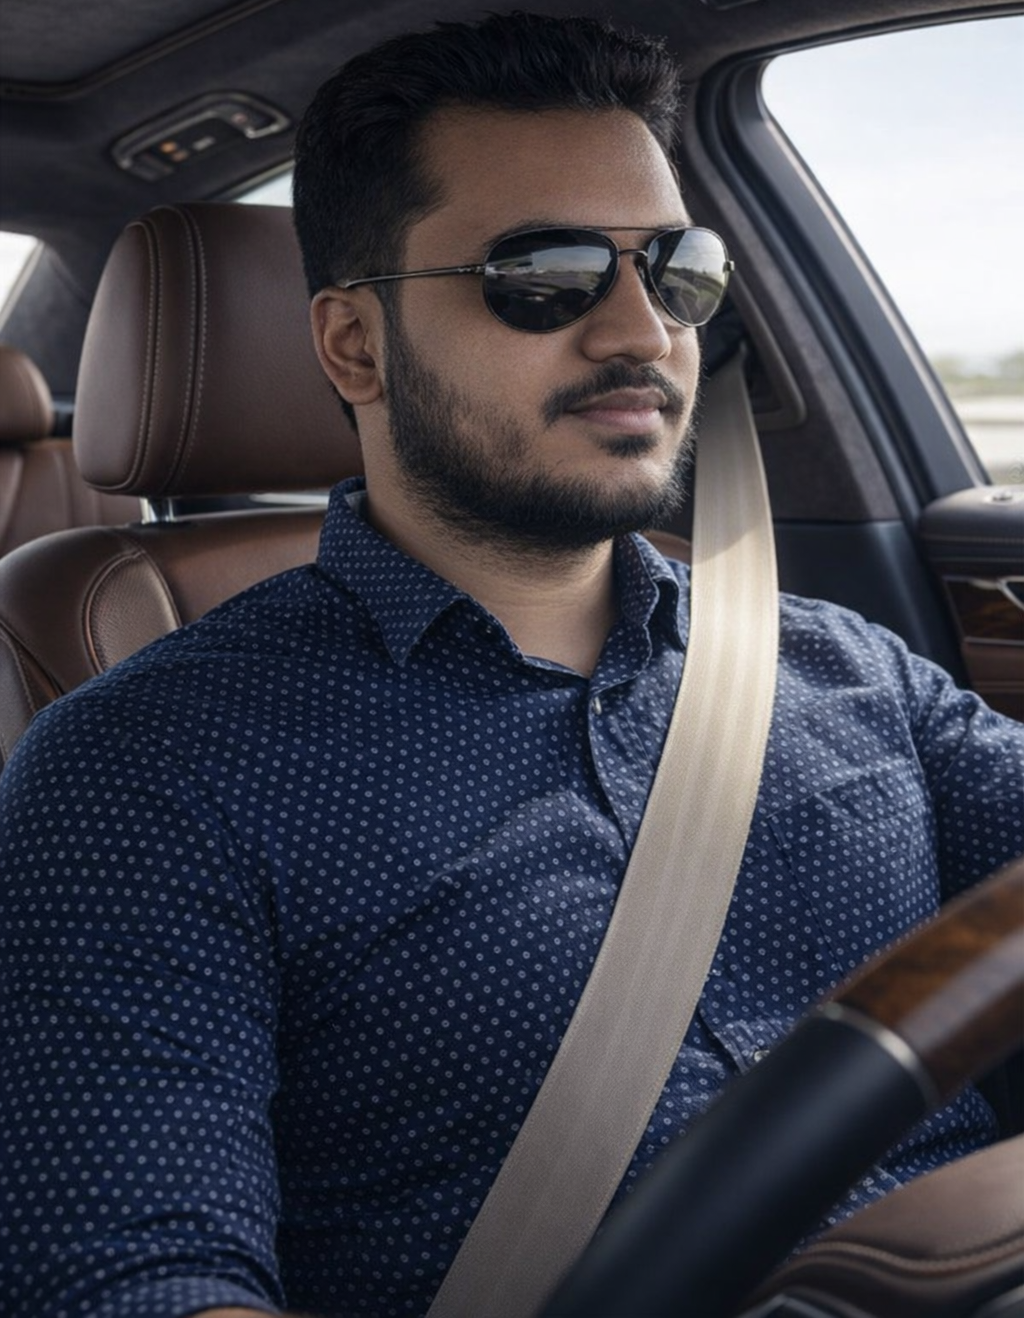
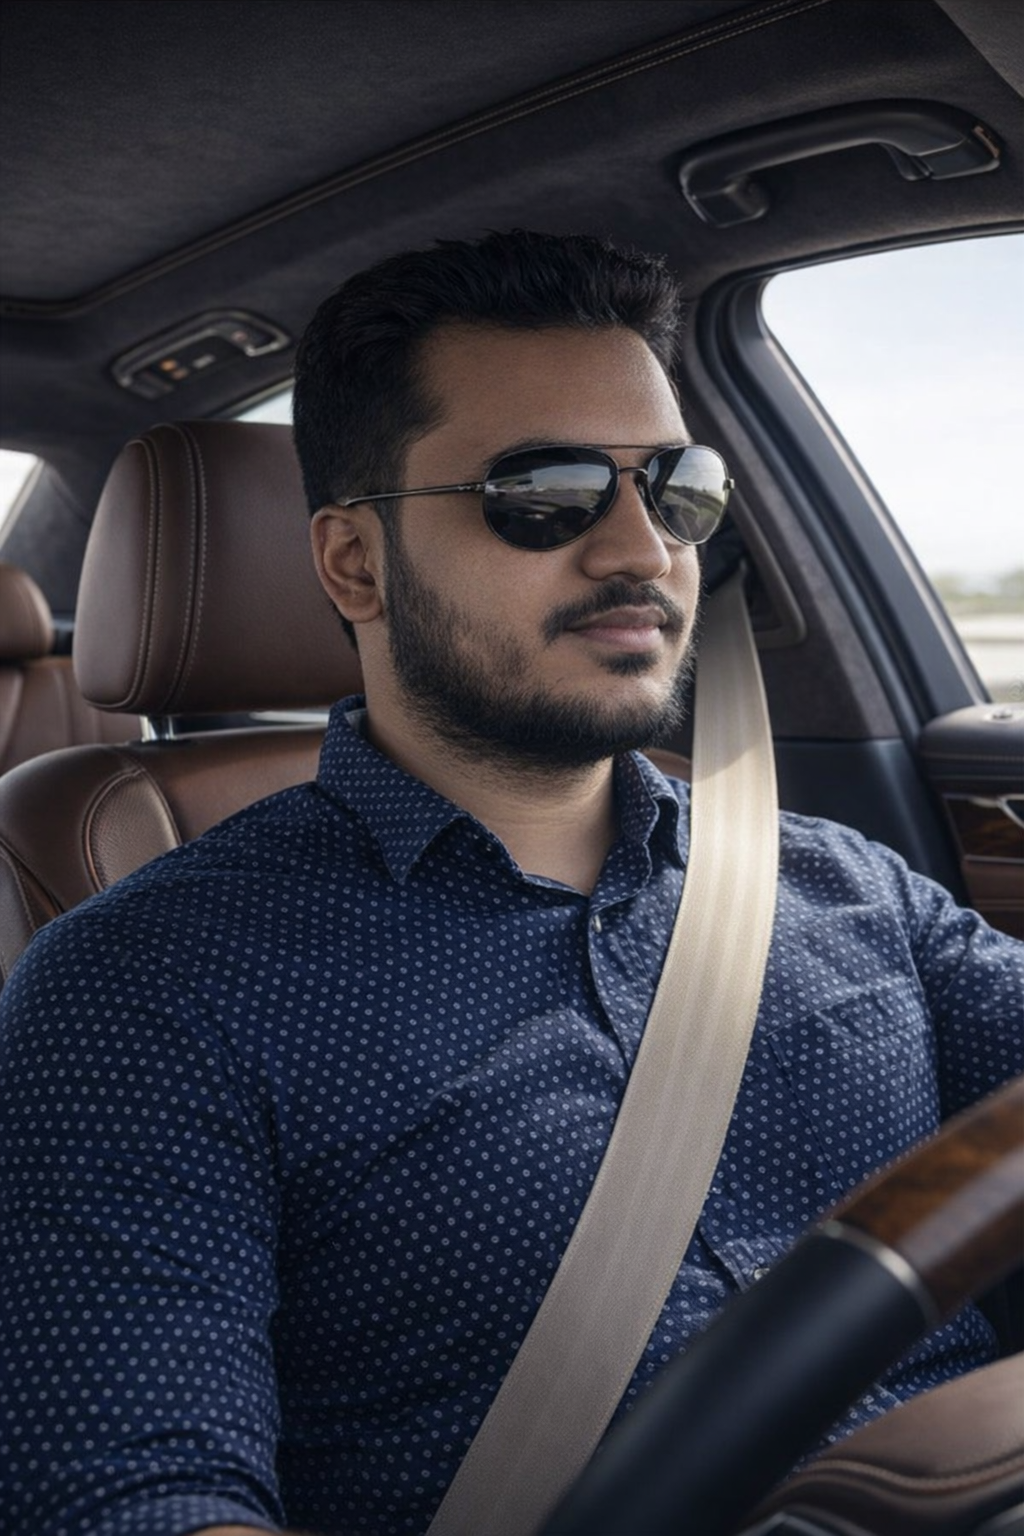
image fix

diff --git a/components/Photo.jsx b/components/Photo.jsx
@@ -4,16 +4,15 @@ import Image from "next/image";
 const Photo = () => {
   return (
     <div className="w-full relative content-entrance">
-      <div className="relative w-[280px] h-[280px] xl:w-[480px] xl:h-[480px] rounded-[48px] overflow-hidden border border-white/10">
-        <div className="absolute inset-0 from-accent/20 via-transparent to-gold/20" />
+      <div className="relative mx-auto w-full max-w-[92vw] sm:max-w-[420px] md:max-w-[480px] aspect-square rounded-[48px] overflow-hidden border border-white/10">
+        <div className="absolute inset-0 bg-gradient-to-br from-accent/20 via-transparent to-gold/20" />
         <Image
           src="/me.png"
           priority
           quality={100}
-          width={480}
-          height={480}
+          fill
           alt="Portrait of Sajed Khan"
-          className="object-contain"
+          className="object-cover"
         />
       </div>
     </div>
